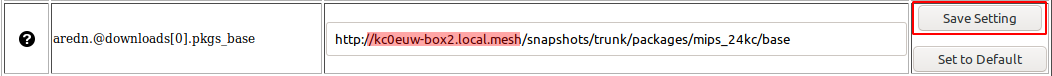
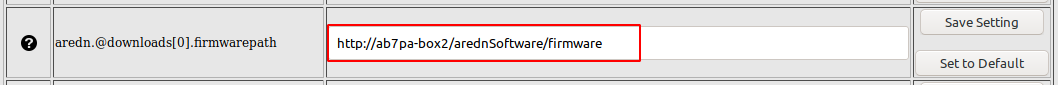
Clarify Local Package Repository Section
Clarify the Local Package Repository instructions in the How-To section.

diff --git a/conf.py b/conf.py
@@ -21,7 +21,7 @@
 
 project = u'AREDN Documentation'
 copyright = u'2020, AREDN'
-author = u'KC0EUW'
+author = u'Steve AB7PA'
 
 # The short X.Y version
 version = u'3.20.3.1'

diff --git a/arednHow-toGuides/local-package-repo.rst b/arednHow-toGuides/local-package-repo.rst
@@ -7,46 +7,46 @@ There may be cases where your mesh nodes have no way to access the AREDN |trade|
 Configure your Package Server
 =============================
 
-Your package server must be connected to the mesh as a host on your local node's LAN network, preferably using a node that also has Internet access via its WAN interface. You should add this host to the node's *DHCP Reservation List*. You do not need to add the package host to the *Advertised Services List* of the node it is connected to. The package server should be given a hostname that is unique on your mesh, typically prefixed with the callsign of the server owner. You can use any operating system platform you desire *(Windows, Linux, Mac),* as long as it has the ability to function as a web server. The following are the two main tasks required of the local package server:
+Your package server must be connected to the mesh as a host on your local node's LAN network, using a node that also has Internet access via its WAN interface. You should add this host to the node's *DHCP Reservation List*. You do not need to add the package host to the *Advertised Services List* of the node to which it is connected. The package server should be given a hostname that is unique on your mesh, typically prefixed with the callsign of the server owner. You can use any operating system platform you desire *(Windows, Linux, Mac),* as long as it has the ability to function as a web server. The following are the two main tasks required of the local package server:
 
-* Obtain the set of AREDN |trade| package files from ``downloads.arednmesh.org``
+* Obtain the set of AREDN |trade| software files from ``downloads.arednmesh.org``
 * Make those files available via your computer's web server so nodes can query the package URLs
 
-There are several ways to accomplish these tasks, and the best approach may vary depending on the platform you implement for your package server. Downloading the AREDN |trade| package files can be done manually as needed, or the process could be automated and executed on a regular schedule. Tools that could be used for this task include `HTTrack <https://en.wikipedia.org/wiki/HTTrack>`_ and `Wget <https://en.wikipedia.org/wiki/Wget>`_, both of which support recursive copying. You should try to make your local repository mirror the AREDN |trade| downloads directory tree as closely as possible, so it contains any of the package files you want to have available to your local mesh nodes.
+There are several ways to accomplish these tasks, and the best approach may vary depending on the platform you implement for your package server. Downloading the AREDN |trade| software files can be done manually as needed, or the process could be automated and executed on a regular schedule. Tools that could be used for this task include `HTTrack <https://en.wikipedia.org/wiki/HTTrack>`_ and `Wget <https://en.wikipedia.org/wiki/Wget>`_, both of which support recursive copying. You should try to make your local repository mirror the AREDN |trade| downloads directory tree as closely as possible, so it contains any of the package files you want to have available to your local mesh nodes.
 
-Once you have downloaded the AREDN |trade| package files, you need to make them available to network nodes via your web server. The steps for accomplishing this task will vary based on the specific web server software you are using. For example, Sys Admins using the `Apache Web Server <https://en.wikipedia.org/wiki/Apache_HTTP_Server>`_ might put the package files under their web server's *DocumentRoot*, or they might create an ``Alias`` to allow web access to parts of the filesystem that are not under the Apache *DocumentRoot* (as described `here <https://http
-d.apache.org/docs/2.4/urlmapping.html>`_). Once the package files have been made available via the web server, you should be able to enter that URL to navigate the entire package tree as shown below.
+Once you have downloaded the AREDN |trade| files, you need to make them available to network nodes via your web server. The steps for accomplishing this task will vary based on the specific web server software you are using. For example, Sys Admins using the `Apache Web Server <https://en.wikipedia.org/wiki/Apache_HTTP_Server>`_ might put the software files under their web server's *DocumentRoot*, or they might create an ``Alias`` to allow web access to parts of the filesystem that are not under the Apache *DocumentRoot* (as described `here <https://http
+d.apache.org/docs/2.4/urlmapping.html>`_). Once the software has been made available via the web server, you should be able to enter that URL to navigate the entire package tree as shown below.
 
 .. image:: _images/view-package-repo.png
    :alt:  View the local package repository
    :align: center
 
-These tasks are all that should be required on your local package host. Once the package tree is available via its web server, you can begin pointing the nodes to the new package location.
+These tasks are all that should be required on your local package host. Once the package tree is available via its web server, you can begin pointing the nodes to your local software repository.
 
 Point Nodes to the New Server
 =============================
 
-To point a node to the local package repository, you must navigate to **Setup > Advanced Configuration**. The table on this webpage has a row for each package type that can be installed on AREDN |trade| nodes. A typical default URL is shown below:
+To point a node to the local software repository, navigate to **Setup > Advanced Configuration**. The table on this webpage has a row for each type of software that can be installed on AREDN |trade| nodes. It might be a good idea to take a screenshot of these settings so you can refer to them later. A typical default URL for *firmwarepath* is shown below:
 
 ::
 
-  http://downloads.arednmesh.org/snapshots/trunk/packages/mips_24kc/base
+  http://downloads.arednmesh.org/firmware
 
-Simply replace this URL with the one that you configured on your local package host. For example, the new entry for *Base* packages might look like the one below:
+Simply replace this URL with the one that you configured on your local package host, then click the *Save Setting* button on that row. For example, the new entry for *firmwarepath* might look like the one below:
 
 ::
 
-  http://kc0euw-box2.local.mesh/snapshots/trunk/packages/mips_24kc/base
+  http://ab7pa-box2.local.mesh/arednSoftware/firmware
 
-It is good practice to use the `fully qualified domain name (FQDN) <https://en.wikipedia.org/wiki/Fully_qualified_domain_name>`_ so the node will be able to resolve the domain portion of the URL to the mesh host's IP address. The URL you enter should match exactly with the alias or path you created and tested on your web server as described in the previous section of this document.
+It is good practice to use the `fully qualified domain name (FQDN) <https://en.wikipedia.org/wiki/Fully_qualified_domain_name>`_ so the node will be able to resolve the domain portion of the URL to the mesh host's IP address. The URL you enter should match exactly with the alias or path you created and tested on your web server as described in the previous section.
 
 .. image:: _images/set-package-host.png
    :alt:  Advanced Configuration - set package URL
    :align: center
 
-After you have entered the new URL, click the **Save Setting** button to activate the new entry.
+After you have entered the new URL, click the **Save Setting** button to activate the new entry. To restore the default entry, click the **Set to Default** button.
 
-Once the node has been pointed to the local package repository, you can navigate to **Setup > Administration**. In the *Package Management* section, click the **Refresh** button to get the list of available packages from the local package repository.
+Once the node has been pointed to the local package repository, you can navigate to **Setup > Administration**. In the *Package Management* section, you can click the **Refresh** button to get the list of available packages from the local package repository. Remember that retrieving this package list will use memory resources on your node.
 
 .. image:: _images/refresh-package-list.png
    :alt:  Administration - refresh package list
@@ -58,31 +58,21 @@ The following example shows the type of information returned when you click the 
 
   Package Management
 
-  Downloading http://kc0euw-box2.local.mesh/snapshots/trunk/packages/mips_24kc/base/Packages.gz
+  Downloading http://ab7pa-box2.local.mesh/arednSoftware/snapshots/trunk/packages/mips_24kc/base/Packages.gz
   Updated list of available packages in /var/opkg-lists/aredn_base
-  Downloading http://kc0euw-box2.local.mesh/snapshots/trunk/packages/mips_24kc/base/Packages.sig
+  Downloading http://ab7pa-box2.local.mesh/arednSoftware/snapshots/trunk/packages/mips_24kc/base/Packages.sig
   Signature check passed.
-  Downloading http://kc0euw-box2.local.mesh/snapshots/trunk/packages/mips_24kc/arednpackages/Packages.gz
+  Downloading http://ab7pa-box2.local.mesh/arednSoftware/snapshots/trunk/packages/mips_24kc/arednpackages/Packages.gz
   Updated list of available packages in /var/opkg-lists/aredn_arednpackages
-  Downloading http://kc0euw-box2.local.mesh/snapshots/trunk/packages/mips_24kc/arednpackages/Packages.sig
+  Downloading http://ab7pa-box2.local.mesh/arednSoftware/snapshots/trunk/packages/mips_24kc/arednpackages/Packages.sig
   Signature check passed.
-  Downloading http://kc0euw-box2.local.mesh/snapshots/trunk/packages/mips_24kc/luci/Packages.gz
+  Downloading http://ab7pa-box2.local.mesh/arednSoftware/snapshots/trunk/packages/mips_24kc/luci/Packages.gz
   Updated list of available packages in /var/opkg-lists/aredn_luci
-  Downloading http://kc0euw-box2.local.mesh/snapshots/trunk/packages/mips_24kc/luci/Packages.sig
+  Downloading http://ab7pa-box2.local.mesh/arednSoftware/snapshots/trunk/packages/mips_24kc/luci/Packages.sig
   Signature check passed.
   ...
 
-You can click the **Select Package** dropdown list to see the packages that are available for download to your node. In the example below, the *tcpdump* package was selected and the **Download** button was clicked. Status information will appear showing the actions that were taken to install the package from the local package host.
-
-.. image:: _images/download-new-package.png
-   :alt:  Administration - download new package
-   :align: center
-
-There is a message that a reboot is required to refresh and restart all services, but this is a normal status message and does not indicate an error condition.
-
----------------
-
-The same basic tasks described in this document could also be used to create a local *firmware* repository. This would allow nodes to download and install firmware images that are hosted within their own mesh network.
+Click the **Select Package** dropdown list to see the packages that are available for download to your node. Select a package and click the **Download** button. Status information will appear showing the actions that were taken to install the package from the local package host. A message may appear that a reboot is required to refresh and restart all services, but this is a normal status message and does not indicate an error condition.
 
 
 .. |trade|  unicode:: U+00AE .. Registered Trademark SIGN
